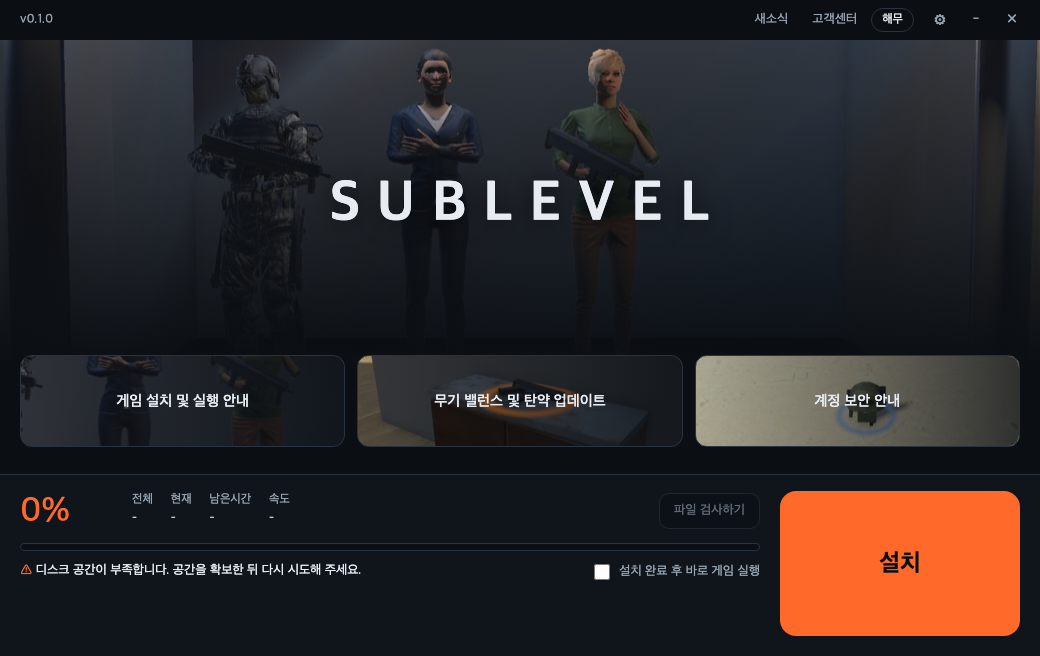
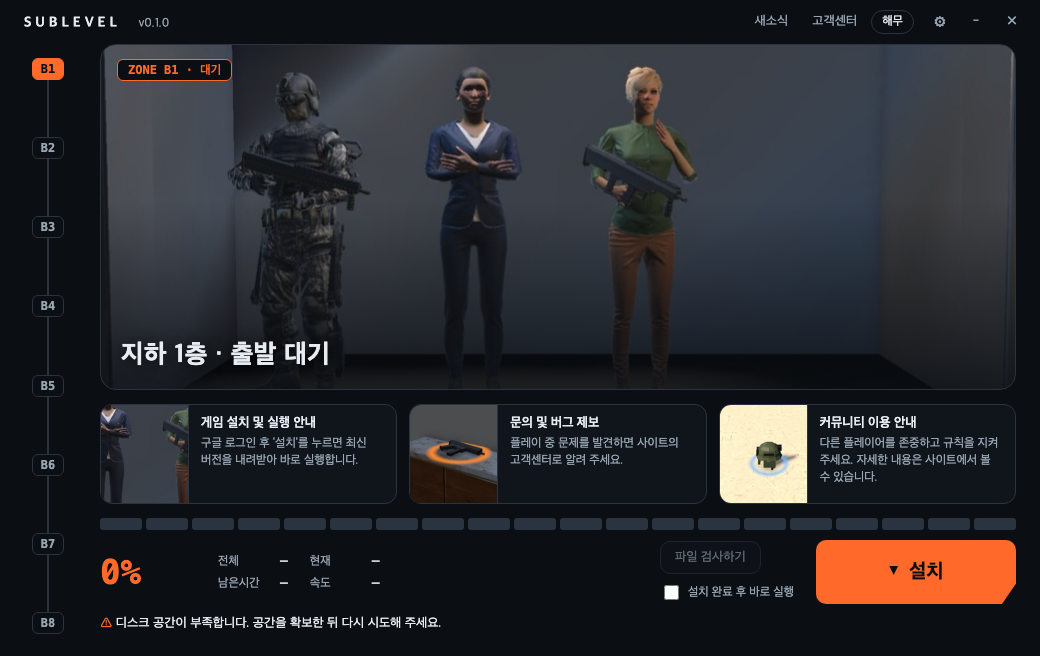
feat(ui): SUBLEVEL launcher design - floor timeline, segmented progress, zone copy, info cards

diff --git a/ui/style.css b/ui/style.css
@@ -1,50 +1,65 @@
-:root { --bg:#0B0F14; --panel:#10151C; --line:#2A3340; --text:#E6ECF2; --sub:#98A5B3; --accent:#FF6A2B; }
+:root { --bg:#0B0F14; --panel:#10151C; --line:#2A3340; --text:#E6ECF2; --sub:#98A5B3; --accent:#FF6A2B; --p:0; }
 * { box-sizing: border-box; }
 html, body { margin: 0; height: 100%; background: var(--bg); overflow: hidden; }
 body { color: var(--text); font: 14px/1.5 "Noto Sans KR", "Apple SD Gothic Neo", "Malgun Gothic", system-ui, sans-serif; word-break: keep-all; }
 button { font: inherit; color: inherit; cursor: pointer; }
 button:focus-visible, input:focus-visible { outline: 2px solid var(--accent); outline-offset: 2px; }
 [hidden] { display: none !important; }
+.pct, dd, .chip, .timeline li { font-family: ui-monospace, "SF Mono", "Cascadia Mono", Menlo, Consolas, monospace; }
 
-.app { position: relative; width: 1040px; height: 656px; display: grid; grid-template-rows: 40px 1fr 100px 190px; background: var(--bg); }
-.top { position: relative; display: flex; justify-content: space-between; align-items: center; padding: 0 12px 0 20px; }
-.ver { color: var(--sub); font-size: 13px; }
+.app { position: relative; width: 1040px; height: 656px; display: grid; grid-template-columns: 96px 1fr; grid-template-rows: 44px 1fr; }
+.top { grid-column: 1 / 3; position: relative; display: flex; justify-content: space-between; align-items: center; padding: 0 12px 0 24px; }
+.brand { font-weight: 700; letter-spacing: .28em; font-size: 14px; }
+.ver { color: var(--sub); font-weight: 400; letter-spacing: 0; font-size: 12px; margin-left: 10px; }
 .links { display: flex; align-items: center; gap: 4px; }
 .link, .icon { background: none; border: 0; color: var(--sub); padding: 4px 10px; border-radius: 8px; font-size: 13px; }
 .link:hover, .icon:hover { color: var(--text); background: var(--panel); }
 .icon { font-size: 18px; width: 32px; line-height: 1; padding: 4px 0; }
 .acct { color: var(--text); font-size: 12px; padding: 2px 10px; margin-right: 6px; border: 1px solid var(--line); border-radius: 999px; max-width: 160px; overflow: hidden; text-overflow: ellipsis; white-space: nowrap; }
-.menu { position: absolute; right: 80px; top: 36px; z-index: 5; background: var(--panel); border: 1px solid var(--line); border-radius: 12px; padding: 6px; display: grid; min-width: 150px; }
+.menu { position: absolute; right: 80px; top: 40px; z-index: 5; background: var(--panel); border: 1px solid var(--line); border-radius: 12px; padding: 6px; display: grid; min-width: 150px; }
 .menu button { background: none; border: 0; text-align: left; padding: 8px 12px; border-radius: 8px; }
 .menu button:hover { background: var(--bg); }
 
-.hero { background: linear-gradient(to bottom, rgba(11,15,20,.2), var(--bg)), url("img/hero.jpg") center 25% / cover; position: relative; }
-.logo { position: absolute; left: 0; right: 0; top: 38%; text-align: center; font-size: 56px; font-weight: 700; letter-spacing: .3em; text-indent: .3em; text-shadow: 0 2px 24px rgba(0,0,0,.7); }
+/* 층 타임라인: 지나온 층은 주황 선으로 이어진다 */
+.timeline { list-style: none; margin: 0; padding: 14px 0 22px; position: relative; display: flex; flex-direction: column; justify-content: space-between; align-items: center; }
+.timeline::before { content: ""; position: absolute; left: 50%; top: 28px; bottom: 36px; width: 2px; margin-left: -1px; background: var(--line); }
+.timeline::after { content: ""; position: absolute; left: 50%; top: 28px; width: 2px; margin-left: -1px; height: calc((100% - 64px) * var(--p) / 100); background: var(--accent); }
+.timeline li { position: relative; z-index: 1; font-size: 12px; font-weight: 600; color: var(--sub); background: var(--bg); border: 1px solid var(--line); border-radius: 6px; padding: 1px 8px; }
+.timeline li.done { color: var(--text); border-color: var(--accent); }
+.timeline li.on { color: #0B0F14; background: var(--accent); border-color: var(--accent); }
 
-.tiles { display: grid; grid-template-columns: repeat(3, 1fr); gap: 12px; padding: 0 20px; align-items: center; margin-top: -30px; z-index: 1; }
-.tile { position: relative; height: 92px; border: 1px solid var(--line); border-radius: 12px; overflow: hidden; background: var(--panel) center / cover; text-align: center; padding: 0; }
-.tile::before { content: ""; position: absolute; inset: 0; background: linear-gradient(90deg, rgba(11,15,20,.35), rgba(11,15,20,.85)); }
-.tile span { position: relative; display: block; padding: 0 20px; font-weight: 500; font-size: 15px; line-height: 1.4; }
-.tile { display: grid; place-items: center; }
+.main { display: grid; grid-template-rows: 1fr 100px auto; gap: 14px; padding: 0 24px 20px 4px; min-height: 0; }
+.hero { position: relative; border: 1px solid var(--line); border-radius: 16px; overflow: hidden; background: linear-gradient(to top, rgba(11,15,20,.8), rgba(11,15,20,0) 55%), url("img/hero.jpg") center 30% / cover; }
+.chip { position: absolute; left: 16px; top: 14px; font-size: 12px; font-weight: 600; color: var(--accent); background: var(--bg); border: 1px solid var(--accent); border-radius: 6px; padding: 1px 10px; }
+.caption { position: absolute; left: 20px; bottom: 14px; margin: 0; font-size: 26px; font-weight: 700; letter-spacing: .02em; text-shadow: 0 2px 16px rgba(0,0,0,.8); }
+
+.cards { display: grid; grid-template-columns: repeat(3, 1fr); gap: 12px; }
+.tile { display: grid; grid-template-columns: 88px 1fr; text-align: left; padding: 0; background: var(--panel); border: 1px solid var(--line); border-radius: 12px; overflow: hidden; }
 .tile:hover { border-color: var(--accent); }
+.tile .img { background: #05070a center / cover; border-right: 1px solid var(--line); }
+.tile .txt { padding: 10px 12px; display: flex; flex-direction: column; gap: 2px; min-width: 0; }
+.tile .t { font-weight: 600; font-size: 13px; line-height: 1.35; }
+.tile .d { font-size: 12px; color: var(--sub); line-height: 1.45; display: -webkit-box; -webkit-line-clamp: 3; -webkit-box-orient: vertical; overflow: hidden; }
 
-.bottom { display: grid; grid-template-columns: 1fr 240px; gap: 20px; padding: 16px 20px 20px; background: var(--panel); border-top: 1px solid var(--line); margin-top: 8px; }
-.row { display: flex; align-items: flex-end; gap: 20px; }
-.pct { font-size: 34px; font-weight: 500; color: var(--accent); line-height: 1; min-width: 92px; }
-.stats { display: flex; gap: 18px; margin: 0; flex: 1; }
-.stats div { display: flex; flex-direction: column; }
-.stats dt { color: var(--sub); font-size: 12px; } .stats dd { margin: 0; font-variant-numeric: tabular-nums; font-size: 13px; white-space: nowrap; }
-.ghost { background: var(--bg); border: 1px solid var(--line); border-radius: 10px; padding: 7px 14px; font-size: 13px; white-space: nowrap; }
+.deck { display: flex; flex-direction: column; justify-content: flex-end; gap: 10px; min-height: 0; }
+.bar { display: grid; grid-template-columns: repeat(20, 1fr); gap: 4px; }
+.bar i { height: 12px; border-radius: 3px; background: var(--line); }
+.bar i.on { background: var(--accent); }
+#fill { display: none; }
+.row { display: flex; align-items: center; gap: 22px; }
+.pct { font-size: 34px; font-weight: 600; color: var(--accent); line-height: 1; min-width: 96px; }
+.stats { display: grid; grid-template-columns: auto auto; gap: 2px 22px; margin: 0; }
+.stats div { display: flex; gap: 10px; align-items: baseline; }
+.stats dt { color: var(--sub); font-size: 12px; min-width: 52px; } .stats dd { margin: 0; font-size: 13px; white-space: nowrap; }
+.side { display: grid; gap: 8px; justify-items: start; margin-left: auto; }
+.ghost { background: var(--panel); border: 1px solid var(--line); border-radius: 10px; padding: 6px 14px; font-size: 13px; white-space: nowrap; }
 .ghost:disabled { color: var(--sub); cursor: default; opacity: .6; }
-.bar { height: 8px; border-radius: 8px; background: var(--bg); border: 1px solid var(--line); overflow: hidden; margin: 14px 0 10px; }
-.bar i { display: block; height: 100%; width: 0; background: var(--accent); }
-.row2 { display: flex; justify-content: space-between; gap: 16px; align-items: flex-start; }
-.status { margin: 0; color: var(--sub); font-size: 13px; min-height: 40px; }
+.auto { color: var(--sub); font-size: 12px; display: flex; align-items: center; gap: 6px; cursor: pointer; white-space: nowrap; }
+.auto input { accent-color: var(--accent); width: 15px; height: 15px; }
+.cta { width: 200px; height: 64px; border: 0; border-radius: 10px; background: var(--accent); color: #0B0F14; font-size: 20px; font-weight: 700; display: flex; align-items: center; justify-content: center; gap: 10px; clip-path: polygon(0 0, 100% 0, 100% 68%, 93% 100%, 0 100%); }
+.cta:not(:disabled)::before { content: "▼"; font-size: 12px; }
+.cta:hover:not(:disabled) { filter: brightness(1.08); }
+.cta:disabled { background: var(--panel); color: var(--sub); cursor: default; box-shadow: inset 0 0 0 1px var(--line); }
+.status { margin: 0; color: var(--sub); font-size: 13px; min-height: 22px; }
 .status.err { color: var(--text); }
 .status.err::before { content: "⚠ "; color: var(--accent); }
-.auto { color: var(--sub); font-size: 13px; white-space: nowrap; display: flex; align-items: center; gap: 6px; cursor: pointer; }
-.auto input { accent-color: var(--accent); width: 16px; height: 16px; }
-.cta { align-self: stretch; border: 0; border-radius: 16px; background: var(--accent); color: #0B0F14; font-size: 24px; font-weight: 700; }
-.cta:hover:not(:disabled) { filter: brightness(1.08); }
-.cta:disabled { background: var(--line); color: var(--sub); cursor: default; }
-@media (prefers-reduced-motion: reduce) { .bar i { transition: none; } }

diff --git a/ui/main.js b/ui/main.js
@@ -11,6 +11,12 @@ const say = (t, err) => { $("status").textContent = t || ""; $("status").classNa
 function setProgress(done, total, speed) {
   const p = total ? Math.min(100, Math.floor((done / total) * 100)) : 0;
   $("pct").textContent = p + "%"; $("fill").style.width = p + "%"; $("barA11y").setAttribute("aria-valuenow", p);
+  document.documentElement.style.setProperty("--p", p);
+  const f = 1 + Math.floor((p * 7) / 100); // 진행률 → 지하 층(B1~B8)
+  document.querySelectorAll("#timeline li").forEach((li, i) => { li.className = i + 1 < f ? "done" : i + 1 === f ? "on" : ""; });
+  document.querySelectorAll("#barA11y i:not(#fill)").forEach((s, i) => s.classList.toggle("on", i < Math.round(p / 5)));
+  $("zone").textContent = `ZONE B${f} · ${p >= 100 ? "접근 가능" : p > 0 ? "하강 중" : "대기"}`;
+  $("caption").textContent = p >= 100 ? "지하 8층 도착 · 준비 완료" : p > 0 ? `지하 ${f}층으로 내려가는 중` : "지하 1층 · 출발 대기";
   $("sTotal").textContent = total ? size(total) : "–"; $("sDone").textContent = total ? size(done) : "–";
   $("sSpeed").textContent = speed ? `${(speed / 1048576).toFixed(2)} MB/s` : "–";
   $("sEta").textContent = speed && total ? clock(Math.max(0, (total - done) / speed)) : "–";
@@ -33,7 +39,7 @@ async function refresh() {
   latest = null; render();
   try {
     latest = await invoke("latest");
-    if (latest.installed) { setProgress(1, 1, 0); say("‘게임 실행’ 버튼을 눌러 게임을 실행해 주세요."); }
+    if (latest.installed) { setProgress(latest.size, latest.size, 0); say("‘게임 실행’ 버튼을 눌러 게임을 실행해 주세요."); }
     else { setProgress(0, latest.size, 0); say(`최신 버전 ${latest.version} · ${size(latest.size)} 을(를) ${latest.has_other ? "업데이트" : "설치"}합니다.`); }
   } catch (e) { say(e, true); setProgress(0, 0, 0); }
   render();
@@ -102,11 +108,16 @@ T.event.listen("progress", (ev) => onProgress(ev.payload));
 T.event.listen("deeplink", async () => { if (await invoke("take_start")) startFlow(); });
 
 (async () => {
+  const el = (tag, cls, text) => { const e = document.createElement(tag); e.className = cls; if (text) e.textContent = text; return e; };
+  $("timeline").replaceChildren(...Array.from({ length: 8 }, (_, i) => el("li", "", "B" + (i + 1))));
+  $("barA11y").prepend(...Array.from({ length: 20 }, () => el("i", "")));
   setProgress(0, 0, 0); render();
   invoke("news").then((items) => {
     $("tiles").replaceChildren(...items.slice(0, 3).map((n, i) => {
-      const b = document.createElement("button"); b.className = "tile"; b.style.backgroundImage = `url(img/t${i + 1}.jpg)`;
-      const s = document.createElement("span"); s.textContent = n.title; b.append(s); b.onclick = () => invoke("open_link", { url: n.url }); return b;
+      const b = el("button", "tile"), img = el("span", "img"), txt = el("span", "txt");
+      img.style.backgroundImage = `url(img/t${i + 1}.jpg)`;
+      txt.append(el("span", "t", n.title), el("span", "d", n.desc || ""));
+      b.append(img, txt); b.onclick = () => invoke("open_link", { url: n.url }); return b;
     }));
   }).catch(() => {});
   try { const m = await invoke("me"); if (m) await enter(m); else { say("구글 계정으로 로그인하고 게임을 시작하세요."); render(); } }

diff --git a/ui/index.html b/ui/index.html
@@ -11,7 +11,7 @@
 <body>
 <div class="app">
   <header class="top" data-tauri-drag-region>
-    <span class="ver" id="launcherVer" data-tauri-drag-region>v0.1.0</span>
+    <span class="brand" data-tauri-drag-region>SUBLEVEL <span class="ver" id="launcherVer">v0.1.0</span></span>
     <nav class="links">
       <button class="link" data-link="news">새소식</button>
       <button class="link" data-link="support">고객센터</button>
@@ -26,32 +26,36 @@
     </div>
   </header>
 
-  <section class="hero">
-    <div class="logo">SUBLEVEL</div>
-  </section>
+  <!-- 진행 단계를 지하 층으로 표현하는 세로 타임라인 -->
+  <ol class="timeline" id="timeline" aria-hidden="true"></ol>
 
-  <section class="tiles" id="tiles" aria-label="공지"></section>
+  <main class="main">
+    <section class="hero">
+      <span class="chip" id="zone">ZONE B1 · 대기</span>
+      <p class="caption" id="caption">지하 1층 · 출발 대기</p>
+    </section>
 
-  <footer class="bottom">
-    <div class="left">
+    <section class="cards" id="tiles" aria-label="안내"></section>
+
+    <footer class="deck">
+      <div class="bar" role="progressbar" aria-label="진행률" aria-valuemin="0" aria-valuemax="100" aria-valuenow="0" id="barA11y"><i id="fill"></i></div>
       <div class="row">
-        <span class="pct" id="pct">0%</span>
+        <div class="pct" id="pct">0%</div>
         <dl class="stats">
           <div><dt>전체</dt><dd id="sTotal">–</dd></div>
           <div><dt>현재</dt><dd id="sDone">–</dd></div>
           <div><dt>남은시간</dt><dd id="sEta">–</dd></div>
           <div><dt>속도</dt><dd id="sSpeed">–</dd></div>
         </dl>
-        <button id="verify" class="ghost" disabled>파일 검사하기</button>
+        <div class="side">
+          <button id="verify" class="ghost" disabled>파일 검사하기</button>
+          <label class="auto"><input type="checkbox" id="auto"> 설치 완료 후 바로 실행</label>
+        </div>
+        <button id="main" class="cta" disabled>확인 중…</button>
       </div>
-      <div class="bar" role="progressbar" aria-valuemin="0" aria-valuemax="100" aria-valuenow="0" id="barA11y"><i id="fill"></i></div>
-      <div class="row2">
-        <p id="status" class="status" role="status" aria-live="polite">확인하는 중…</p>
-        <label class="auto"><input type="checkbox" id="auto"> 설치 완료 후 바로 게임 실행</label>
-      </div>
-    </div>
-    <button id="main" class="cta" disabled>확인 중…</button>
-  </footer>
+      <p id="status" class="status" role="status" aria-live="polite">확인하는 중…</p>
+    </footer>
+  </main>
 </div>
 </body>
 </html>

diff --git a/docs/design/variant-a.html b/docs/design/variant-a.html
@@ -1,0 +1,22 @@
+<!doctype html><meta charset="utf-8"><title>A안 하강 게이지</title>
+<style>
+:root{--bg:#0B0F14;--panel:#10151C;--line:#2A3340;--text:#E6ECF2;--sub:#98A5B3;--accent:#FF6A2B}
+*{box-sizing:border-box}body{margin:0;width:1040px;height:656px;background:var(--bg);color:var(--text);font:14px/1.5 "Noto Sans KR","Apple SD Gothic Neo",sans-serif;display:grid;grid-template-columns:120px 1fr;overflow:hidden}
+.gauge{border-right:1px solid var(--line);padding:24px 0;display:flex;flex-direction:column;justify-content:space-between;align-items:center;position:relative}
+.gauge::before{content:"";position:absolute;left:60px;top:40px;bottom:40px;width:2px;background:var(--line)}
+.gauge::after{content:"";position:absolute;left:60px;top:40px;height:42%;width:2px;background:var(--accent)}
+.f{position:relative;z-index:1;font:600 13px ui-monospace,Menlo,monospace;color:var(--sub);background:var(--bg);padding:2px 8px;border:1px solid var(--line);border-radius:6px}
+.f.on{color:#0B0F14;background:var(--accent);border-color:var(--accent)}
+main{padding:24px 28px;display:grid;grid-template-rows:auto 1fr auto;gap:16px}
+h1{margin:0;font-size:15px;letter-spacing:.3em}h1 small{color:var(--sub);letter-spacing:0;font-weight:400;margin-left:10px}
+.hero{border:1px solid var(--line);border-radius:14px;background:linear-gradient(to right,var(--bg),transparent 40%),url(../../ui/img/hero.jpg) center/cover;display:flex;align-items:flex-end;padding:20px}
+.hero p{margin:0;font-size:34px;font-weight:700;letter-spacing:.06em}.hero span{color:var(--accent)}
+.row{display:grid;grid-template-columns:1fr 280px;gap:20px;align-items:center}
+.news{display:flex;gap:10px;font-size:13px;color:var(--sub)}.news i{font-style:normal;border:1px solid var(--line);border-radius:999px;padding:3px 12px}
+.pct{font:600 32px ui-monospace,monospace;color:var(--accent)}
+.cta{height:64px;border-radius:12px;background:var(--accent);color:#0B0F14;font-weight:700;font-size:20px;display:grid;place-items:center;clip-path:polygon(0 0,100% 0,100% 70%,92% 100%,0 100%)}
+</style>
+<div class="gauge"><span class="f">B1</span><span class="f">B2</span><span class="f on">B3</span><span class="f">B4</span><span class="f">B5</span><span class="f">B6</span><span class="f">B7</span><span class="f">B8</span></div>
+<main><h1>SUBLEVEL<small>v0.1.0</small></h1>
+<div class="hero"><p>지하 <span>3층</span>으로 내려가는 중</p></div>
+<div class="row"><div><div class="pct">42%</div><div class="news"><i>설치 안내</i><i>버그 제보</i><i>커뮤니티</i></div></div><div class="cta">▼ 설치 중…</div></div></main>

diff --git a/docs/design/variant-c.html b/docs/design/variant-c.html
@@ -1,0 +1,17 @@
+<!doctype html><meta charset="utf-8"><title>C안 구역 봉쇄 보드</title>
+<style>
+:root{--bg:#0B0F14;--panel:#10151C;--line:#2A3340;--text:#E6ECF2;--sub:#98A5B3;--accent:#FF6A2B}
+*{box-sizing:border-box}body{margin:0;width:1040px;height:656px;background:var(--bg);color:var(--text);font:14px/1.5 "Noto Sans KR","Apple SD Gothic Neo",sans-serif;padding:24px 28px;display:grid;grid-template-rows:auto 220px 1fr auto;gap:16px;overflow:hidden}
+h1{margin:0;font-size:15px;letter-spacing:.3em;display:flex;justify-content:space-between}h1 small{color:var(--sub);letter-spacing:.1em;font-weight:400}
+.hero{border:1px solid var(--line);border-radius:14px;background:url(../../ui/img/hero.jpg) center 20%/cover;position:relative}
+.hero b{position:absolute;left:16px;bottom:12px;font:600 12px ui-monospace,monospace;background:var(--bg);border:1px solid var(--accent);color:var(--accent);padding:2px 10px;border-radius:6px}
+.zones{display:grid;grid-template-columns:repeat(3,1fr);gap:12px}
+.z{background:var(--panel);border:1px solid var(--line);border-radius:12px;padding:14px 16px;display:grid;align-content:space-between}.z small{font:600 12px ui-monospace,monospace;color:var(--accent)}
+.seg{display:grid;grid-template-columns:repeat(20,1fr);gap:4px;margin-bottom:8px}.seg i{height:14px;border-radius:3px;background:var(--line)}.seg i.on{background:var(--accent)}
+.bottom{display:grid;grid-template-columns:1fr auto;gap:20px;align-items:center}.pct{font:600 28px ui-monospace,monospace;color:var(--accent);margin-right:14px}
+.cta{padding:0 40px;height:56px;border-radius:8px;border:2px solid var(--accent);color:var(--accent);font-weight:700;font-size:18px;display:grid;place-items:center}
+</style>
+<h1>SUBLEVEL<small>구역 봉쇄 해제 중 · v0.1.0</small></h1>
+<div class="hero"><b>ZONE B3 · 접근 가능</b></div>
+<div class="zones"><div class="z"><small>B1</small>게임 설치 및 실행 안내</div><div class="z"><small>B2</small>문의 및 버그 제보</div><div class="z"><small>B3</small>커뮤니티 이용 안내</div></div>
+<div class="bottom"><div><div class="seg"><i class="on"></i><i class="on"></i><i class="on"></i><i class="on"></i><i class="on"></i><i class="on"></i><i class="on"></i><i class="on"></i><i></i><i></i><i></i><i></i><i></i><i></i><i></i><i></i><i></i><i></i><i></i><i></i></div><span class="pct">42%</span><span style="color:var(--sub)">2.40 GB · 233 MB/s · 00:00:06</span></div><div class="cta">설치 중…</div></div>

diff --git a/ui/mock.js b/ui/mock.js
@@ -29,7 +29,10 @@ if (!window.__TAURI__) {
     verify_files: async () => { if (q.get("hold")) await new Promise(() => {}); await sleep(800); return { checked: 1284, bad: q.get("bad") ? 1 : 0 }; },
     launch_game: async () => { await sleep(300); },
     take_start: async () => q.get("start") === "1",
-    news: async () => [{ title: "게임 설치 및 실행 안내", url: "" }, { title: "무기 밸런스 및 탄약 업데이트", url: "" }, { title: "계정 보안 안내", url: "" }],
+    news: async () => [
+      { title: "게임 설치 및 실행 안내", desc: "구글 로그인 후 ‘설치’를 누르면 최신 버전을 내려받아 바로 실행합니다.", url: "" },
+      { title: "문의 및 버그 제보", desc: "플레이 중 문제를 발견하면 사이트의 고객센터로 알려 주세요.", url: "" },
+      { title: "커뮤니티 이용 안내", desc: "다른 플레이어를 존중하고 규칙을 지켜 주세요. 자세한 내용은 사이트에서 볼 수 있습니다.", url: "" }],
     open_link: async () => {},
   };
   window.__TAURI__ = {

diff --git a/src-tauri/src/lib.rs b/src-tauri/src/lib.rs
@@ -13,7 +13,7 @@ struct Game(Mutex<Option<std::process::Child>>);
 struct PendingStart(AtomicBool);
 
 #[derive(serde::Serialize, serde::Deserialize)]
-struct NewsItem { title: String, url: String }
+struct NewsItem { title: String, #[serde(default)] desc: String, url: String }
 
 #[tauri::command] async fn me() -> Result<Option<auth::Me>, String> { auth::me().await }
 #[tauri::command] async fn login() -> Result<auth::Me, String> { auth::login().await }
@@ -30,8 +30,11 @@ async fn news() -> Vec<NewsItem> {
         if !r.status().is_success() { return None; }
         r.json::<Vec<NewsItem>>().await.ok()
     }.await;
-    fetched.filter(|v| !v.is_empty()).unwrap_or_else(|| ["게임 설치 및 실행 안내", "문의 및 버그 제보", "커뮤니티 이용 안내"]
-        .iter().map(|t| NewsItem { title: t.to_string(), url: base.clone() }).collect())
+    fetched.filter(|v| !v.is_empty()).unwrap_or_else(|| [
+        ("게임 설치 및 실행 안내", "구글 로그인 후 ‘설치’를 누르면 최신 버전을 내려받아 바로 실행합니다."),
+        ("문의 및 버그 제보", "플레이 중 문제를 발견하면 사이트의 고객센터로 알려 주세요."),
+        ("커뮤니티 이용 안내", "다른 플레이어를 존중하고 규칙을 지켜 주세요. 자세한 내용은 사이트에서 볼 수 있습니다."),
+    ].iter().map(|(t, d)| NewsItem { title: t.to_string(), desc: d.to_string(), url: base.clone() }).collect())
 }
 
 /// 외부 링크는 우리 사이트(API 주소)로만 연다. 다른 값은 거절.
